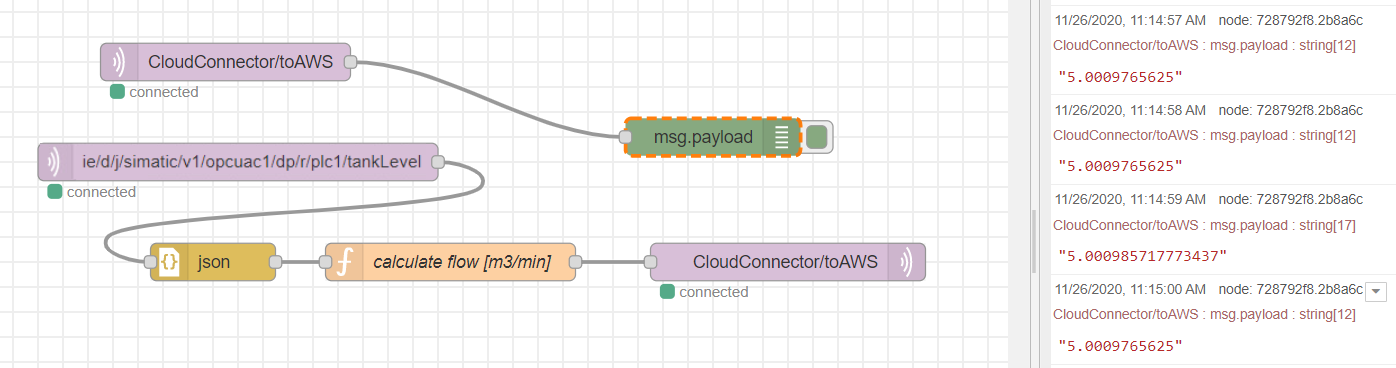
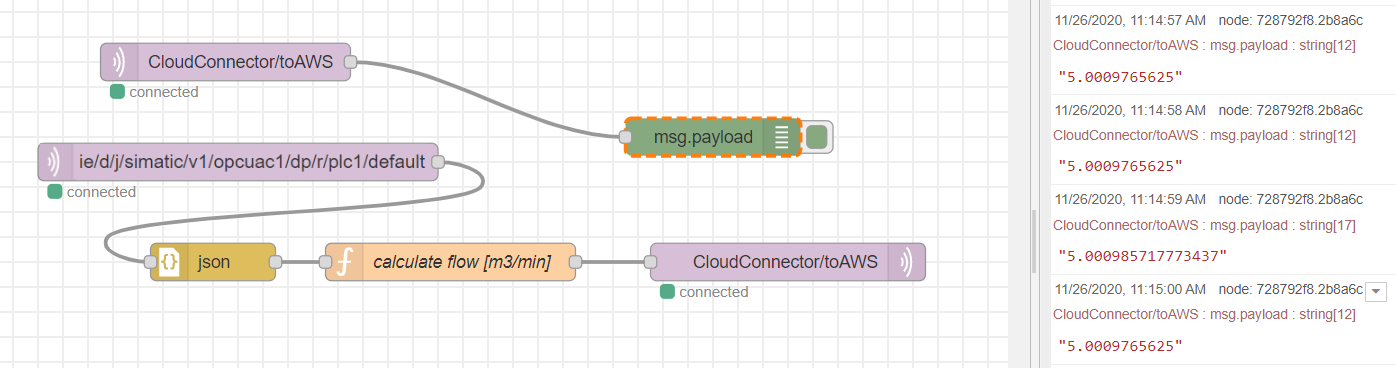
updated

Changed region(s): [[0.0308, 0.4185, 0.308, 0.4783]]

diff --git a/docs/Installation.md b/docs/Installation.md
@@ -4,7 +4,7 @@
   - [Setting up the Databus](#setting-up-the-databus)
   - [Setting up the OPC UA Connector](#setting-up-the-opc-ua-connector)
   - [Setting up the Connection to the cloud](#setting-up-the-connection-to-the-cloud)
-    - [Creating a new policy and thing for the aws IoT device](#creating-a-new-policy-and-thing-for-the-aws-iot-device)
+    - [Creating a new policy and thing for the AWS IoT device](#creating-a-new-policy-and-thing-for-the-aws-iot-device)
     - [Setting up the Cloud Connector](#setting-up-the-cloud-connector)
     - [Testing the Connection to the cloud](#testing-the-connection-to-the-cloud)
 
@@ -13,9 +13,9 @@
 In this example, two topics on the IE Databus are used.
 
 The fist one is used by the OPC UA Connector to publish the data read from the PLC:
-For example: `ie/d/j/simatic/v1/opcuac1/dp/r/plc1/tankLevel`
+For example: `ie/d/j/simatic/v1/opcuac1/dp/r/plc1/default`
 
-The second is used by the IE Cloud Connector to receive data which will then be published to the cloud.
+The second is used by the Cloud Connector to receive data which will then be published to the cloud.
 For example: `CloudConnector/toAWS`
 
 To set up a user with publish and subscribe permission, open the IE Databus Configurator for your device and set it up accordingly. In this example, a user `edge` has permission to publish and subscribe to `ie/#` and `CloudConnector/#`
@@ -25,7 +25,6 @@ To set up a user with publish and subscribe permission, open the IE Databus Conf
 ## Setting up the OPC UA Connector
 
 - Open the OPC UA Connector Configurator
-- Enter the Databus User and Password in the Settings. "Bulk Publish" must be deactivated.
 - Add your PLC as a data source
 - Browse the tags and select  `GDB_externalSignals_tankSignals_actLevel` with a 100ms acquisition cycle.
 
@@ -33,19 +32,19 @@ To set up a user with publish and subscribe permission, open the IE Databus Conf
 
 ## Setting up the Connection to the cloud
 
-Before starting the Cloud Connector Configurator, a new policy and a new device have to be set up in the aws IoT management console.
+Before starting the Cloud Connector Configurator, a new policy and a new device have to be set up in the AWS IoT management console.
 
-### Creating a new policy and thing for the aws IoT device
+### Creating a new policy and thing for the AWS IoT device
 
 In the aws IoT management console:
 
-- navigate to "Manage" -> "All devices" -> "Things"
+- Navigate to "Manage" -> "All devices" -> "Things"
 - Click on "Create things"
 - Select "Create single thing" and then click "Next"
 
 ![iot gateway create things](./graphics/iot-gateway-create-things.png)
 
-- enter the Thing name
+- Enter the Thing name
 
 ![iot gateway thing name](./graphics/iot-gateway-thing-name.png)
 
@@ -54,19 +53,19 @@ In the aws IoT management console:
 ![iot gateway auto generate](./graphics/iot-gateway-auto-generate.png)
 
 - Click on "Create policy"
-- enter the Policy name
-- in the "Policy action" box choose an action one by one for `iot:Publish, iot:Connect`
-- in the "Policy resource" box enter the character "*"
-- in the "Policy effect" box check to "Allow"
+- Enter the Policy name
+- In the "Policy action" box choose an action one by one for `iot:Publish, iot:Connect`
+- In the "Policy resource" box enter the character "*"
+- In the "Policy effect" box check to "Allow"
 - Click "Create"
 
 ![iot gateway create policy](./graphics/iot-gateway-create-policy.png)
 
-- check the policy created and then click "Create thing"
+- Check the policy created and then click "Create thing"
 
 ![iot gateway create thing](./graphics/iot-gateway-create-thing.png)
 
-- download the certificate and private key
+- Download the certificate and private key
 
 ![iot gateway certificate key](./graphics/iot-gateway-certificate-key.png)
 
@@ -87,7 +86,7 @@ Configure the Cloud Connector for Edge Management Data Connection
 ![iot gateway adapters](./graphics/iot-gateway-adapters.png)
 
 - Click on Add Route 
-- enter a name for the route `toAWS`
+- Enter a name for the route `toAWS`
 
 ![iot gateway route](./graphics/iot-gateway-route.png)
 
@@ -95,18 +94,18 @@ The last part is to configure the cloud clients
 
 - Click on "Add Client"
 - Enter a Name e.g `ccID` and choose `AWS` as type and click "save"
-- select the certificate and private key you downloaded when creating the aws thing
-- click on the edit symbol net to the client
-- enter a Client ID e.g `ccID`. This will be the ID used by the connector to publish data to the MQTT broker of the aws IoT device.
-- enter the hostname of the aws endpoint. You can find the address at the "Settings" section of the aws IoT console. It looks similar to this: `abcdefghi12345.iot.us-east.amazonaws.com`
-- enter `8883` as Port Number
-- enter Proxy settings if needed
+- Select the certificate and private key you downloaded when creating the aws thing
+- Click on the edit symbol net to the client
+- Enter a Client ID e.g `ccID`. This will be the ID used by the connector to publish data to the MQTT broker of the aws IoT device.
+- Enter the hostname of the aws endpoint. You can find the address at the "Settings" section of the aws IoT console. It looks similar to this: `abcdefghi12345.iot.us-east.amazonaws.com`
+- Enter `8883` as Port Number
+- Enter Proxy settings if needed
 
 ![iot gateway client configuration](./graphics/iot-gateway-client-configuration.png)
 ![iot gateway client configuration advance](./graphics/iot-gateway-client-configuration-advance.png)
 
 - Now select the route, check the box next to the bus adaptor topic `CloudConnector/toAWS` and check the box next to Cloud Connector Clients `ccID`
-- click "save" and "Deploy"
+- Click "save" and "Deploy"
 
 ![iot gateway save deploy](./graphics/iot-gateway-save-deploy.png)
 
@@ -118,8 +117,8 @@ E.g. data published to the topic `CloudConnectot/toAWS` in the IE Databus will g
 In the AWS IoT management console:
 
 - Navigate to "Test" -> "MQTT test client"
-- in "Subscribe to a topic" enter the topic the Cloud Connector is publishing to. E.g. `CloudConnector/#`
-- open the Flow Creator an publish some test data to the topic the Cloud Connector is subscribing to. E.g. `CloudConnector/toAWS`
+- In "Subscribe to a topic" enter the topic the Cloud Connector is publishing to. E.g. `CloudConnector/#`
+- Open the Flow Creator an publish some test data to the topic the Cloud Connector is subscribing to. E.g. `CloudConnector/toAWS`
 - The data will be visible in the IoT management console
 
 ![iot gateway mqtt test](./graphics/iot-gateway-mqtt-test.png)

diff --git a/README.md b/README.md
@@ -1,6 +1,6 @@
 # IoT gateway
 
-Using the IE system apps to preprocess PLC data and push it to the cloud
+Using the Industrial Edge system apps to preprocess PLC data and push it to the cloud
 
 - [IoT gateway](#iot-gateway)
   - [Description](#description)
@@ -19,7 +19,7 @@ Using the IE system apps to preprocess PLC data and push it to the cloud
 
 ## Description
 
-This example demonstrates how to use the Industrial Edge System Apps to read data from a PLC, preprocess it and to push  it to the cloud
+This example demonstrates how to use the Industrial Edge System Apps to read data from a PLC, preprocess it and push it to the cloud
 
 ### Overview
 
@@ -32,7 +32,7 @@ The Cloud Connector then reads this preprocessed data and publishes it to the AW
 
 ### General task
 
-To set up this example, the IE Databus, the SIMATIC S7 Connector and the Cloud Connector have to be configured.
+To set up this example, the Databus, the SIMATIC S7 Connector and the Cloud Connector have to be configured.
 
 ## Requirements
 
@@ -53,7 +53,7 @@ To set up this example, the IE Databus, the SIMATIC S7 Connector and the Cloud C
 
 - The Bottle filling example project is loaded to a PLC on which a OPC-UA server is running.
 - The minimum publishing interval and sampling interval of the OPC UA server of the PLC is set to 100ms
-- SIMATIC S7 Connector is installed on the industrial edge device (IED)
+- SIMATIC S7 Connector is installed on the Industrial Edge Device (IED)
 - Cloud Connector is installed on the IED
 - Flow Creator is installed on the IED
 - Access to AWS with permission to create IoT Devices and policies
@@ -70,9 +70,9 @@ Please refer to the [Installation](./docs/Installation.md) documentation
 
 ## Usage
 
-To publish preprocessed data of the PLC to the cloud, the Flow Creator is used to receive the data published to the databus by the SIMATIC S7 Connector, preprocess it and publish the result to the topic the Cloud Connector is listening to.
+To publish preprocessed data of the PLC to the cloud, the Flow Creator is used to receive the data published to the Databus by the SIMATIC S7 Connector, preprocess it and publish the result to the topic the Cloud Connector is listening to.
 
-In the bottle filling and the following flow, the filling level of the tank is used to calculate the flowrate of the tank filling which is then published to the aws IoT thing.
+In the bottle filling and the following flow, the filling level of the tank is used to calculate the flowrate of the tank filling which is then published to the AWS IoT thing.
 Configure the IE System Applications according to the [Installation](./docs/Installation.md) documentation and deploy the provided [flow](./src/iotGateway-flow.json) into the IE Flow creator. Before deploying the flow enter the user credentials configured in IE Databus in the MQTT-Node.
 
 ![bottlefilling example](./docs/graphics/iot-gateway-flow.png)
